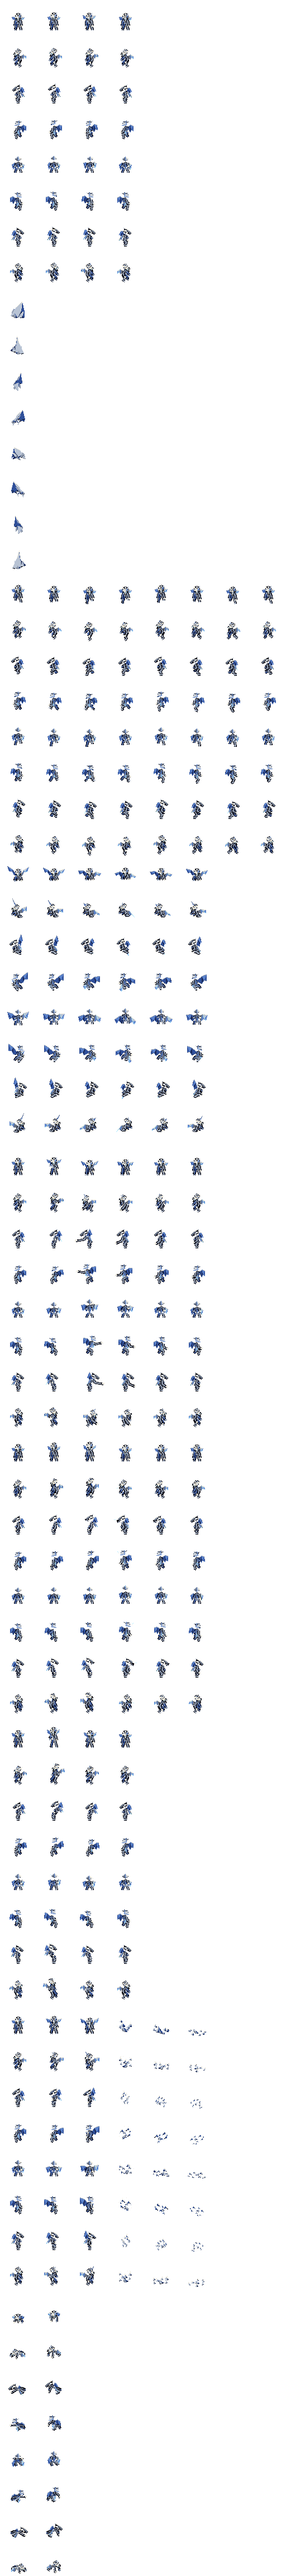
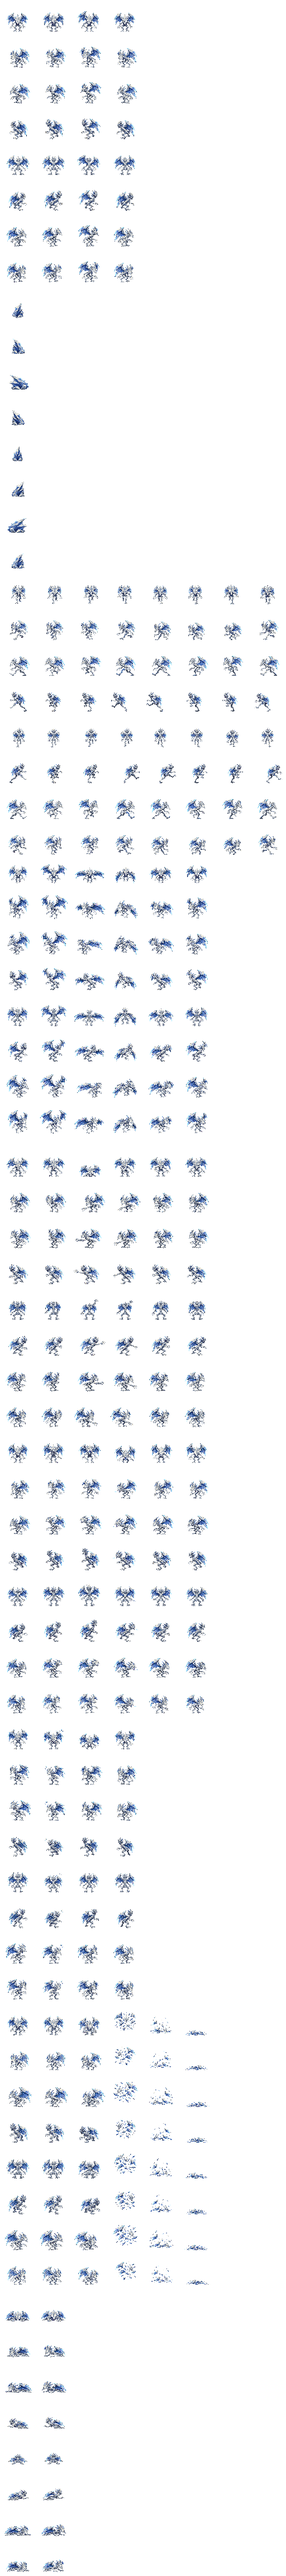
The ice mephit redrawn: the art desk's illustrated sources, its own native cut, taken as drawn
icemephit_p1 from ICE-MEPHIT-ILLUSTRATED-SOURCES (claimed out of Fresh to deep16/_src/icemephit/):
fifty ImageGen pages on navy, each frame reduced by the art desk onto a transparent 64 x 64 cell at the
first delivery's (32, 52) origin, every colour one of the 64, the same rows and counts (idle 4, still 1,
walk 8, fly 6, claws 6, breath 6, flinch 4, hurt 6, prone 2; Fog Cloud Cast still not cut).
tools/icemephit-sheet.py reads the new map's `rows` and `native_file`s, checks each page's SHA-256
(all 50 match), hard alpha and the 64. No red or fire in it to move. The sheet's size, rows, releases
and top are unchanged; deep16/data/foes.js untouched.

On the lanes desk's relay of Griz's "All that's in Fresh is all we're getting from the art dept for a
while, the cutter can work through those ones".

diff --git a/deep16/data/sprites.js b/deep16/data/sprites.js
@@ -8922,7 +8922,7 @@
 "source": "generated by Griz (2026-09-29, one sheet; the rofl row from his second, 2026-09-30) and the art desk (2026-10-15, ART-30: the SE and NE views of every row, the front and back of the flinch, the fall and the rofl), cut and snapped by tools/hyena-sheet.py"
 },
 "icemephit_p1": {
-"image": "art/icemephit_p1.png?v=1bc8611980",
+"image": "art/icemephit_p1.png?v=894bea6ab3",
 "fw": 64,
 "fh": 64,
 "ax": 32,
@@ -9014,7 +9014,7 @@
 }
 },
 "name": "Ice Mephit",
-"source": "drawn by the art desk at game size (ICE-MEPHIT-DEEP16-SOURCES, 11-15), cut as drawn by tools/icemephit-sheet.py; SW W NW mirrored -- the SRD 5.1 Ice Mephit: deep16/data/foes.js icemephit"
+"source": "drawn by the art desk (ICE-MEPHIT-ILLUSTRATED-SOURCES, 11-15: ImageGen pages, its own native cut at game size), cut as drawn by tools/icemephit-sheet.py; SW W NW mirrored -- the SRD 5.1 Ice Mephit: deep16/data/foes.js icemephit"
 },
 "idony_p1": {
 "image": "art/idony_p1.png?v=c2537898ed",

diff --git a/deep16/index.html b/deep16/index.html
@@ -77,7 +77,7 @@
 <script src="js/art.js?v=e1ce4cf012"></script>
 <script src="data/cavern.js?v=647c1a184a"></script>
 <script src="data/maps.js?v=bef56a5de9"></script>
-<script src="data/sprites.js?v=705525c47d"></script>
+<script src="data/sprites.js?v=4c10045f62"></script>
 <script src="js/sprites.js?v=ac7a3234c4"></script>
 <script src="js/save.js?v=6f0bef3cf5"></script>
 <script src="data/spells.js?v=ae0037fb81"></script>

diff --git a/tools/icemephit-sheet.py b/tools/icemephit-sheet.py
@@ -12,37 +12,55 @@ Rows: idle 4; still 1 (False Appearance, the folded shard -- js/ui.js plays it t
 hit on frame 3 -- js/battle.js plays the row named for the attack); breath 6 (Frost Breath, `release` 3 -- js/traits.js M.breathe plays it, the cone the engine's
 bloom; only mouth flecks drawn); flinch 4; hurt 6 (Death Burst: it shatters on frame 4, as it dies); prone 2. NOT CUT: Fog Cloud Cast (its innate fog cloud is not
 on the grid for a monster yet; its pages stay in _src).
+
+THE REDRAW (11-15 night, the redraw cutter seat, on the lanes desk's relay of Griz's "All that's in Fresh is all we're getting from the art dept for a while, the
+cutter can work through those ones"): the art desk's ICE-MEPHIT-ILLUSTRATED-SOURCES, claimed out of Fresh to deep16/_src/icemephit/ (the zip beside its
+2026-11-15-ICE-MEPHIT-ILLUSTRATED-SOURCES/). Fifty illustrated pages (ImageGen, on navy), each frame reduced by the art desk itself onto a transparent 64 x 64 cell
+at the same (32, 52) origin, every colour one of the 64, the same rows and counts as the first delivery -- FRAME-MAP.json `rows`, each frame's `native_file`
+(and each page's source_sha256, checked). Taken as drawn, as the first was: no rescale, no snap, no red or fire in it to move.
 """
-import json, os, sys
+import hashlib, json, os, sys
 import numpy as np
 from PIL import Image
 
 ROOT = os.path.dirname(os.path.dirname(os.path.abspath(__file__)))
-FOLDER = os.path.join(ROOT, 'deep16', '_src', 'icemephit', '2026-11-15-ICE-MEPHIT-SOURCES', 'ICE-MEPHIT')
+FOLDER = os.path.join(ROOT, 'deep16', '_src', 'icemephit', '2026-11-15-ICE-MEPHIT-ILLUSTRATED-SOURCES', 'ICE-MEPHIT-ILLUSTRATED')
 if not os.path.isdir(FOLDER) and '.claude' in ROOT.split(os.sep):
-    FOLDER = os.path.join(ROOT.split(os.sep + '.claude' + os.sep)[0], 'deep16', '_src', 'icemephit', '2026-11-15-ICE-MEPHIT-SOURCES', 'ICE-MEPHIT')
+    FOLDER = os.path.join(ROOT.split(os.sep + '.claude' + os.sep)[0], 'deep16', '_src', 'icemephit', '2026-11-15-ICE-MEPHIT-ILLUSTRATED-SOURCES', 'ICE-MEPHIT-ILLUSTRATED')
 NAME = 'icemephit_p1'
-ROWS = [('idle', 'Idle', 5), ('still', 'False Appearance', 1), ('walk', 'Walk', 10), ('fly', 'Fly', 10), ('claws', 'Claws', 10), ('breath', 'Frost Breath', 8),
-        ('flinch', 'Flinch', 10), ('hurt', 'Death Burst', 8), ('prone', 'Prone', 6)]
+ROWS = [('idle', 'IDLE', 5), ('still', 'FALSE-APPEARANCE', 1), ('walk', 'WALK', 10), ('fly', 'FLY', 10), ('claws', 'CLAWS', 10), ('breath', 'FROST-BREATH', 8),
+        ('flinch', 'FLINCH', 10), ('hurt', 'DEATH-BURST', 8), ('prone', 'PRONE', 6)]
 RELEASE = {'claws': 2, 'breath': 3}
 FACE = {'S': 0, 'SE': 7, 'E': 6, 'NE': 5, 'N': 4}
 MIRROR = {1: 7, 2: 6, 3: 5}
-SOURCE = ('drawn by the art desk at game size (ICE-MEPHIT-DEEP16-SOURCES, 11-15), cut as drawn by tools/icemephit-sheet.py; SW W NW mirrored -- '
-          'the SRD 5.1 Ice Mephit: deep16/data/foes.js icemephit')
+SOURCE = ('drawn by the art desk (ICE-MEPHIT-ILLUSTRATED-SOURCES, 11-15: ImageGen pages, its own native cut at game size), cut as drawn by tools/icemephit-sheet.py; '
+          'SW W NW mirrored -- the SRD 5.1 Ice Mephit: deep16/data/foes.js icemephit')
+
+
+def palette():
+    p = json.load(open(os.path.join(ROOT, 'deep16', 'palette.json'), encoding='utf-8'))
+    return {tuple(int(c[i:i + 2], 16) for i in (1, 3, 5)) for r in p['ramps'].values() for c in r}
 
 
 def main():
     fm = json.load(open(os.path.join(FOLDER, 'FRAME-MAP.json'), encoding='utf-8'))
-    W, H = fm['cell_wh']; AX, AY = fm['anchor_xy']; bg = np.array([int(fm['backdrop'][i:i + 2], 16) for i in (1, 3, 5)], np.uint8)
+    W, H = fm['cell_wh']; AX, AY = fm['anchor_xy']; pal = palette()
     cells = {}
-    for p in fm['pages']:
+    for p in fm['rows']:
         if p['facing'] not in FACE:
             continue
-        pg = np.asarray(Image.open(os.path.join(FOLDER, *p['file'].split('/'))).convert('RGB'))
+        if hashlib.sha256(open(os.path.join(FOLDER, *p['source'].split('/')), 'rb').read()).hexdigest() != p['source_sha256']:
+            raise SystemExit('%s: not the page its map names (SHA-256)' % p['source'])
         fs = []
         for f in sorted(p['frames'], key=lambda f: f['frame']):
-            x, y, w, h = f['cell_xywh']; assert (w, h) == (W, H) and tuple(f['anchor_xy']) == (AX, AY), (p['file'], f)
-            rgb = pg[y:y + h, x:x + w]; c = np.zeros((h, w, 4), np.uint8); c[..., :3] = rgb; c[..., 3] = np.where((rgb == bg).all(-1), 0, 255)
+            c = np.asarray(Image.open(os.path.join(FOLDER, *f['native_file'].split('/'))).convert('RGBA')).copy()
+            assert c.shape[:2] == (H, W), (f['native_file'], c.shape)
+            if not set(np.unique(c[..., 3]).tolist()) <= {0, 255}:
+                raise SystemExit('%s: alpha not hard' % f['native_file'])
+            c[c[..., 3] == 0] = 0
+            off = {tuple(int(v) for v in px) for px in c[c[..., 3] > 0][:, :3]} - pal
+            if off:
+                raise SystemExit('%s: %d colours off the 64' % (f['native_file'], len(off)))
             fs.append(c)
         cells[(FACE[p['facing']], p['action'])] = fs
     for mf, sf in MIRROR.items():
